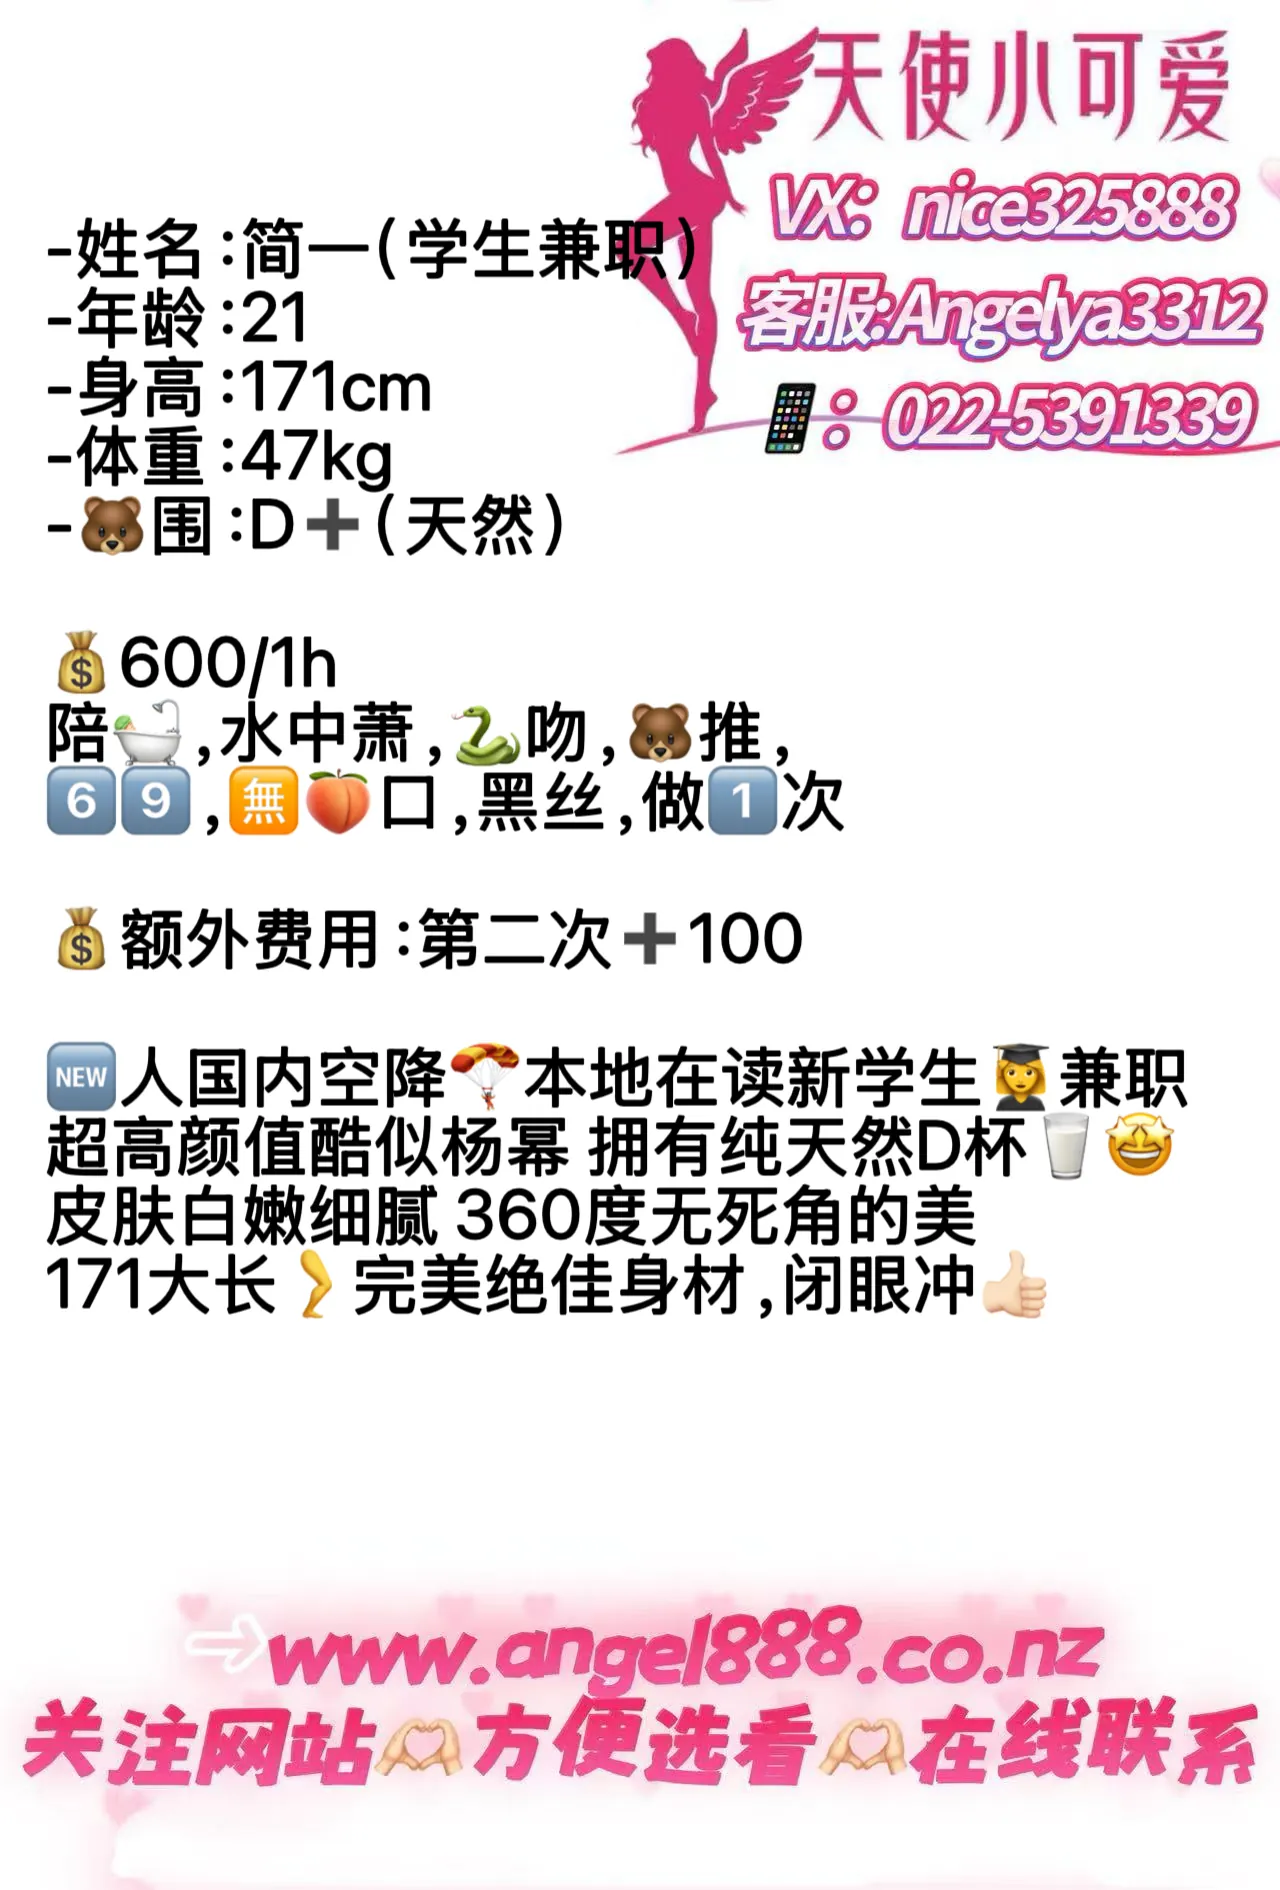
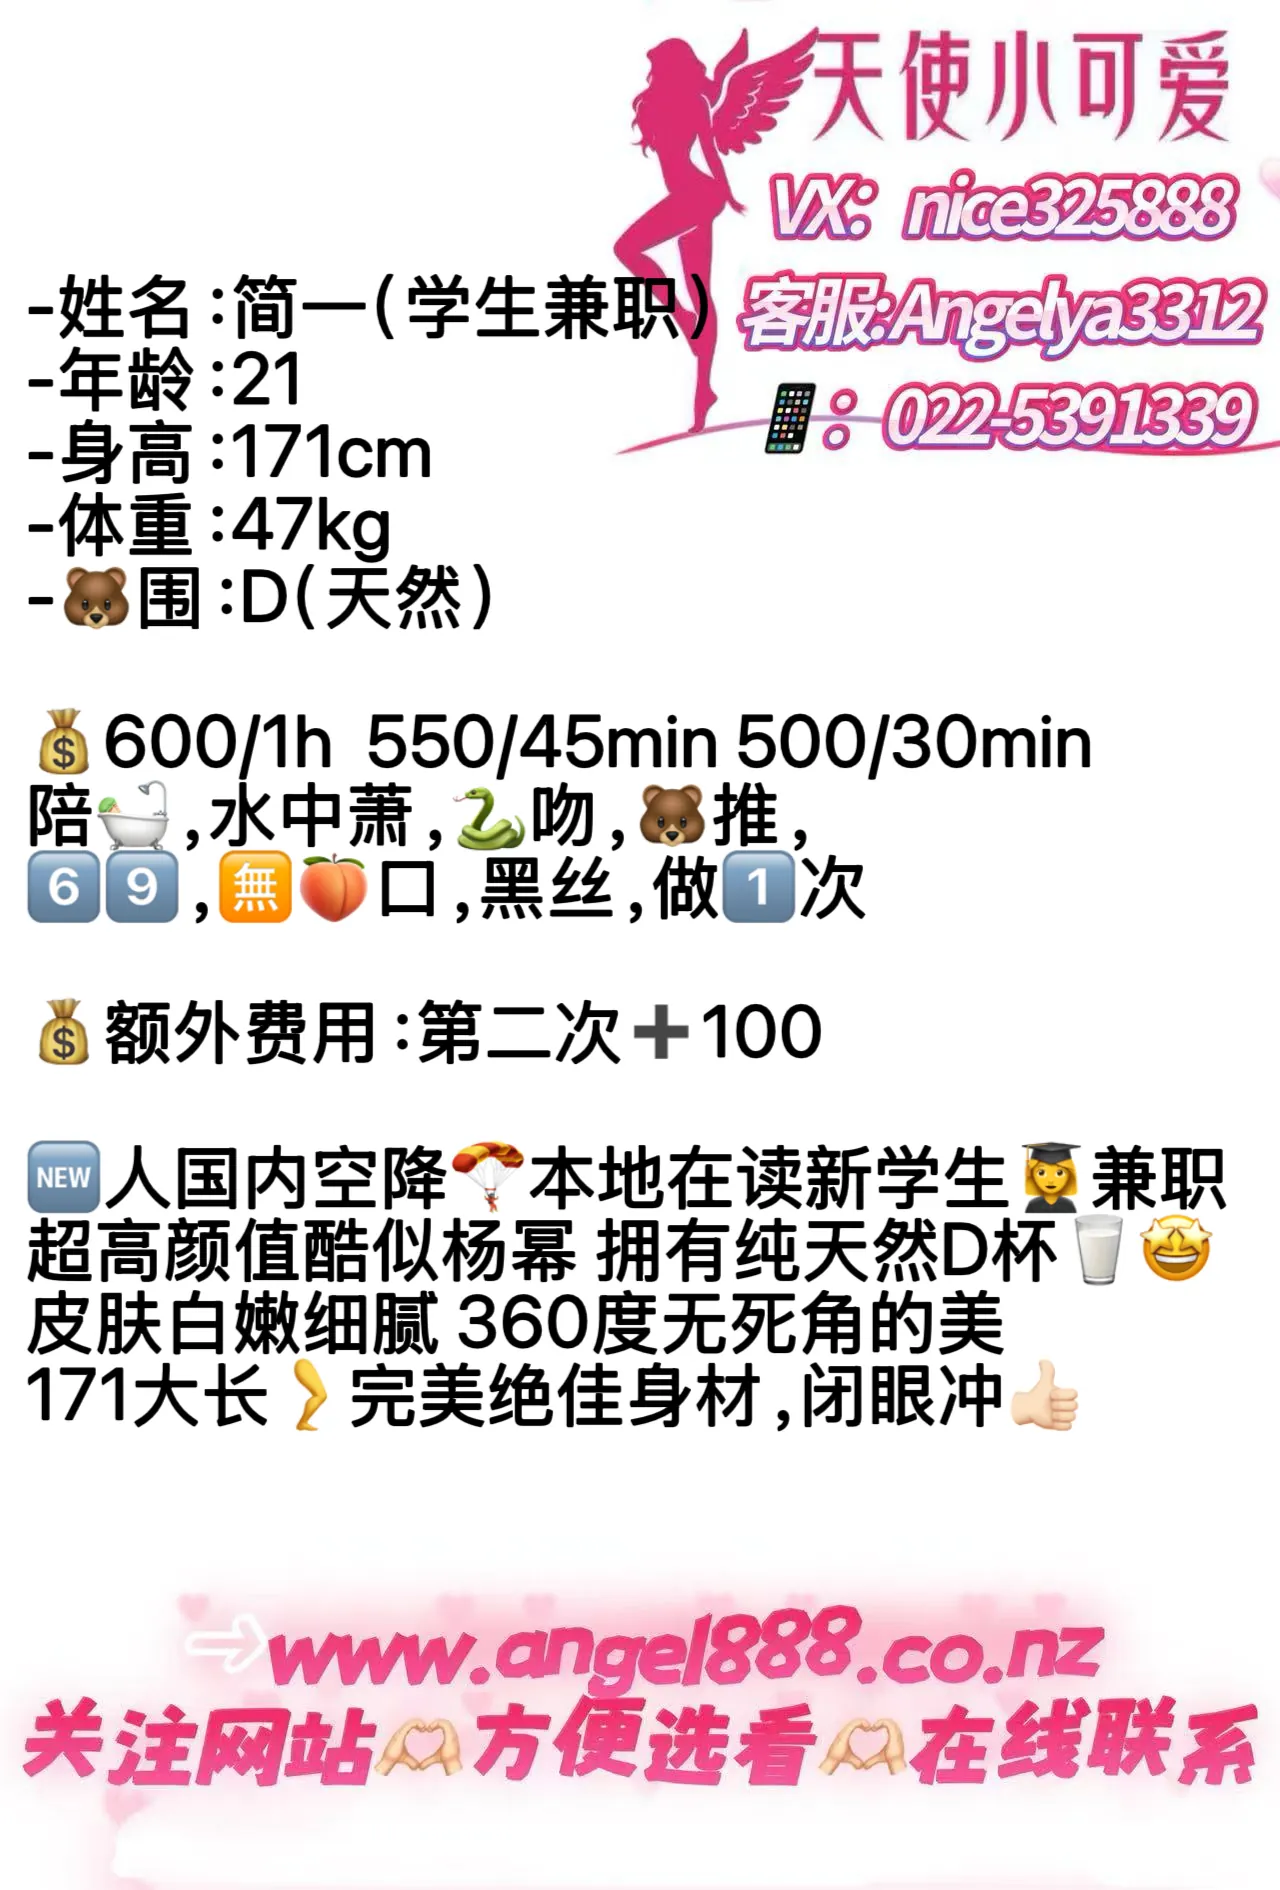
feat: Update Jianyi (简一) prices and add new showcase image

Changed region(s): [[0.0, 0.0937, 0.9688, 0.7804]]

diff --git a/src/lib/data.js b/src/lib/data.js
@@ -59,7 +59,7 @@ export const girls = [
       en: "Sweet, gorgeous, and incredibly tall, Jianyi is a 21-year-old local undergraduate companion now serving CBD Auckland. Boasting top-tier looks resembling celebrity Yang Mi, a flawless fair complexion, and an impressive 171cm stature with natural D+ cup curves, she is an absolute dream companion. Her standard package ($600/1h) includes double shower play, water BJ, deep French kissing, stocks, breast massage, mutual oral (69), stockings, natural BJ, and 1 round. Upgrade to a second round for an extra $100. Cash only.",
       cn: "🆕高颜值高挑本地在读学生妹兼职空降！21岁的简一现已来到奥克兰市区 CBD 为您服务。她身高 171cm，体重 47kg，身材高挑完美，拥有令人惊叹的纯天然 D+ 罩杯。她长相酷似杨幂，肤白貌美无死角。1 小时套餐提供双人鸳鸯洗浴、水中吹箫、法式舌吻、胸推漫游、69 互动、无套口交及性感黑丝诱惑。提供 1 次激情温存，加收 $100 可升级做 2 次。仅收现金。",
     },
-    price: "$600 / 1h",
+    price: "$600 / 1h · $550 / 45min · $500 / 30min",
     services: {
       en: [
         "Shower together",
@@ -90,6 +90,7 @@ export const girls = [
       "/images/girls/jianyi/cover.webp",
       "/images/girls/jianyi/1.webp",
       "/images/girls/jianyi/2.webp",
+      "/images/girls/jianyi/3.webp",
       "/images/girls/jianyi/data1.webp",
       "/images/girls/jianyi/data2.webp",
     ],},
